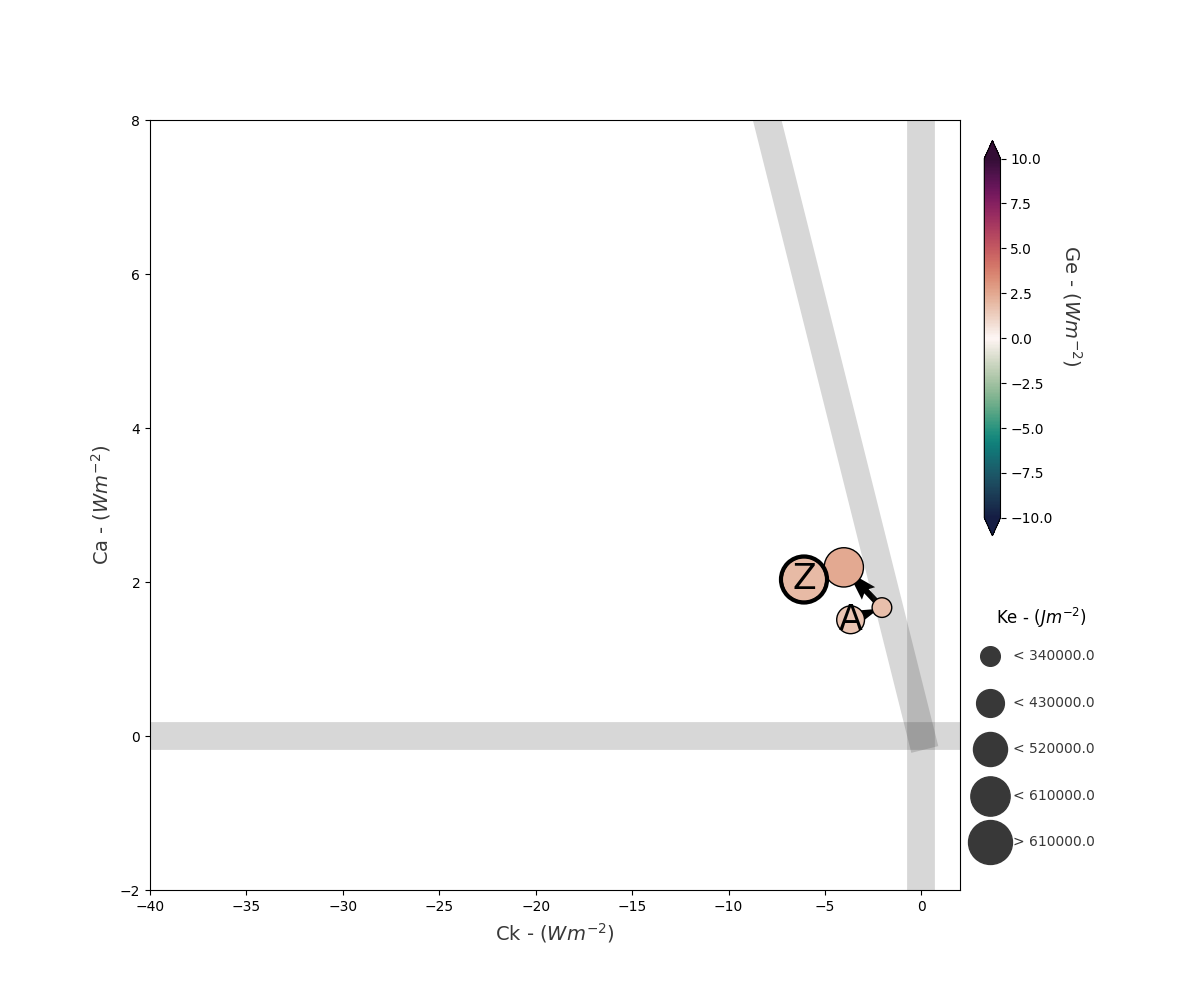
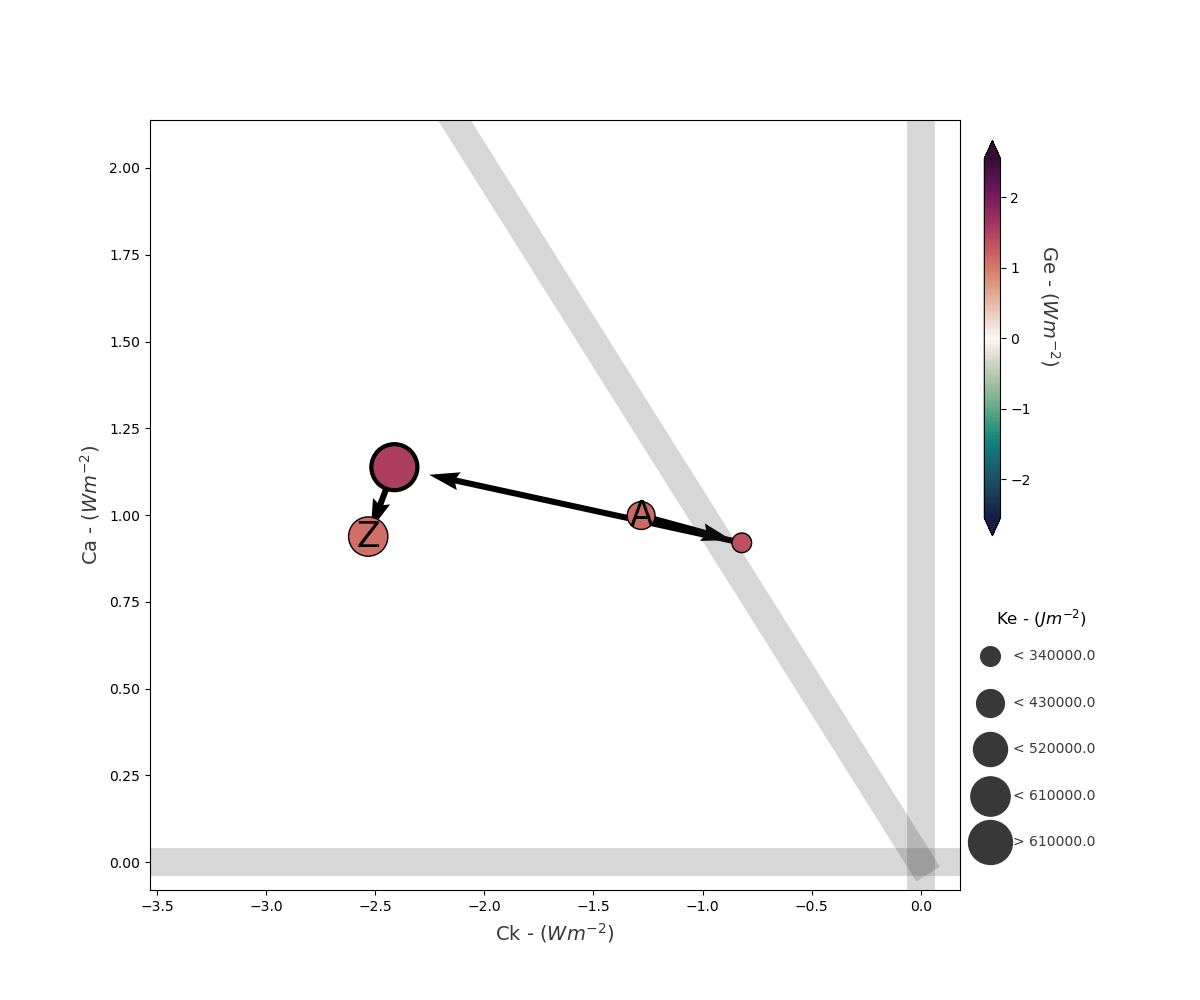
improved figs

diff --git a/src_test_fixed_x_mobile_domain/plot_lps_means_corresponding_clusters.py b/src_test_fixed_x_mobile_domain/plot_lps_means_corresponding_clusters.py
@@ -1,16 +1,3 @@
-# **************************************************************************** #
-#                                                                              #
-#                                                         :::      ::::::::    #
-#    plot_lps_means_corresponding_clusters.py           :+:      :+:    :+:    #
-#                                                     +:+ +:+         +:+      #
-#    By: daniloceano <danilo.oceano@gmail.com>      +#+  +:+       +#+         #
-#                                                 +#+#+#+#+#+   +#+            #
-#    Created: 2024/05/06 11:56:04 by daniloceano       #+#    #+#              #
-#    Updated: 2024/07/07 23:24:11 by daniloceano      ###   ########.fr        #
-#                                                                              #
-# **************************************************************************** #
-
-
 import os
 import pandas as pd
 import json
@@ -40,6 +27,15 @@ def read_life_cycles(base_path):
     
     return systems_energetics
 
+def remove_outliers(df):
+    """
+    Remove outliers from a DataFrame using the IQR method.
+    """
+    Q1 = df.quantile(0.25)
+    Q3 = df.quantile(0.75)
+    IQR = Q3 - Q1
+    return df[~((df < (Q1 - 1.5 * IQR)) | (df > (Q3 + 1.5 * IQR))).any(axis=1)]
+
 def plot_system(lps, df):
     """
     Plots the Lorenz Phase Space diagram for a single system
@@ -53,19 +49,16 @@ def plot_system(lps, df):
     )
 
 def plot_all_systems_by_region_season(averages_df, output_directory):
-
-
     # Initialize the Lorenz Phase Space plotter
     lps = Visualizer(LPS_type='mixed', zoom=True,
-                    x_limits=[-40, 2],
-                    y_limits=[-2, 8],
-                    color_limits=[-10, 10])
+                    x_limits=[averages_df['Ck'].min() -1, averages_df['Ck'].max() +1],
+                    y_limits=[averages_df['Ca'].min() -1, averages_df['Ca'].max() +1],
+                    color_limits=[averages_df['Ge'].min() -1, averages_df['Ge'].max() +1])
 
     plot_system(lps, averages_df)
     
     # Save the final plot
     plot_filename = f'lps_fixed_means.png'
-
     plot_path = os.path.join(output_directory, plot_filename)
     lps.fig.savefig(plot_path)
 
@@ -104,8 +97,10 @@ def main():
         for track_id, df in systems_energetics_cluster.items():
             # Calculate the average for each term across different periods
             period_values = df.loc[period]
-
             results_df = pd.concat([results_df, pd.DataFrame({'track_id': [track_id], 'period': [period], **period_values})], ignore_index=True)
+
+    # Remove outliers
+    results_df = remove_outliers(results_df)
 
     # Compute the averages
     results_df.set_index('track_id', inplace=True)
@@ -115,4 +110,3 @@ def main():
 
 if __name__ == "__main__":
     main()
-

diff --git a/src_test_fixed_x_mobile_domain/plot_lps_fixed_all_systems.py b/src_test_fixed_x_mobile_domain/plot_lps_fixed_all_systems.py
@@ -6,7 +6,7 @@
 #    By: daniloceano <danilo.oceano@gmail.com>      +#+  +:+       +#+         #
 #                                                 +#+#+#+#+#+   +#+            #
 #    Created: 2024/05/05 18:56:28 by daniloceano       #+#    #+#              #
-#    Updated: 2024/05/06 15:14:22 by daniloceano      ###   ########.fr        #
+#    Updated: 2024/07/08 10:47:50 by daniloceano      ###   ########.fr        #
 #                                                                              #
 # **************************************************************************** #
 
@@ -62,7 +62,7 @@ def plot_all_systems_by_region_season(systems_energetics, output_directory):
 
     # Ajut limits for zoomed plot
     lps_zoom.ax.set_xlim(-100, 60)
-    lps_zoom.ax.set_ylim(-7, 20)
+    lps_zoom.ax.set_ylim(-5, 15)
     
     # Save the final plot
     plot_filename = f'lps_all_systems_fixed.png'
